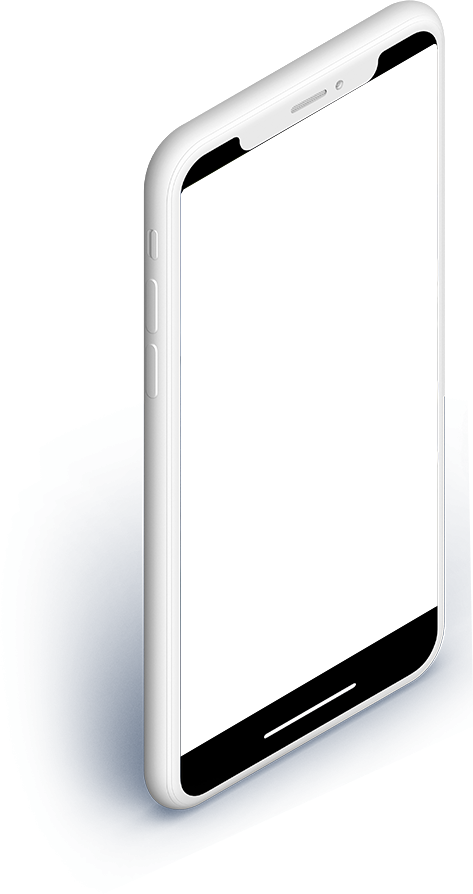
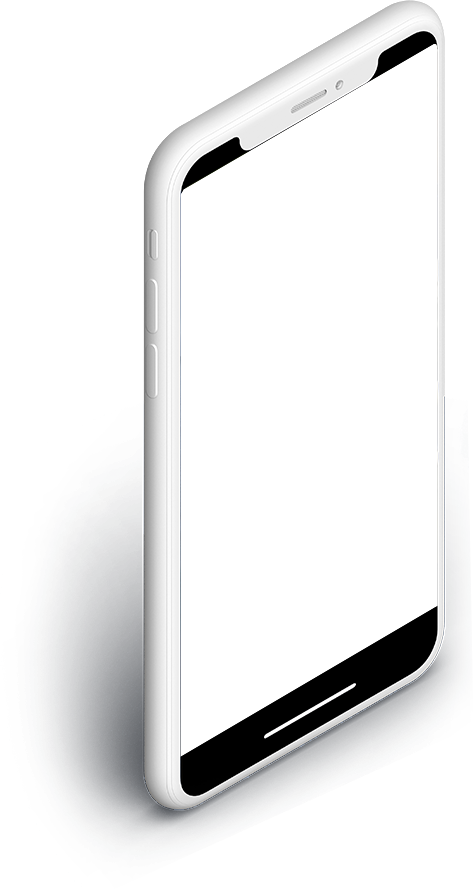
updating the phone frame and campaign image shadows

diff --git a/components/blocks/DigitalCampaigns.vue b/components/blocks/DigitalCampaigns.vue
@@ -107,16 +107,16 @@ export default {
 .phone-frame
   padding-bottom 57%
   width 25%
-  left 15%
-  top 7%
+  left 14%
+  top 3%
   opacity 0
   transform translateX(-10%)
   default-transition transform opacity, time-slow, balanced, 0.2s
 
   @media(max-width tablet)
     width 30%
-    left 2%
-    top 16%
+    left 1%
+    top 14%
 
   .device-video
     position absolute
